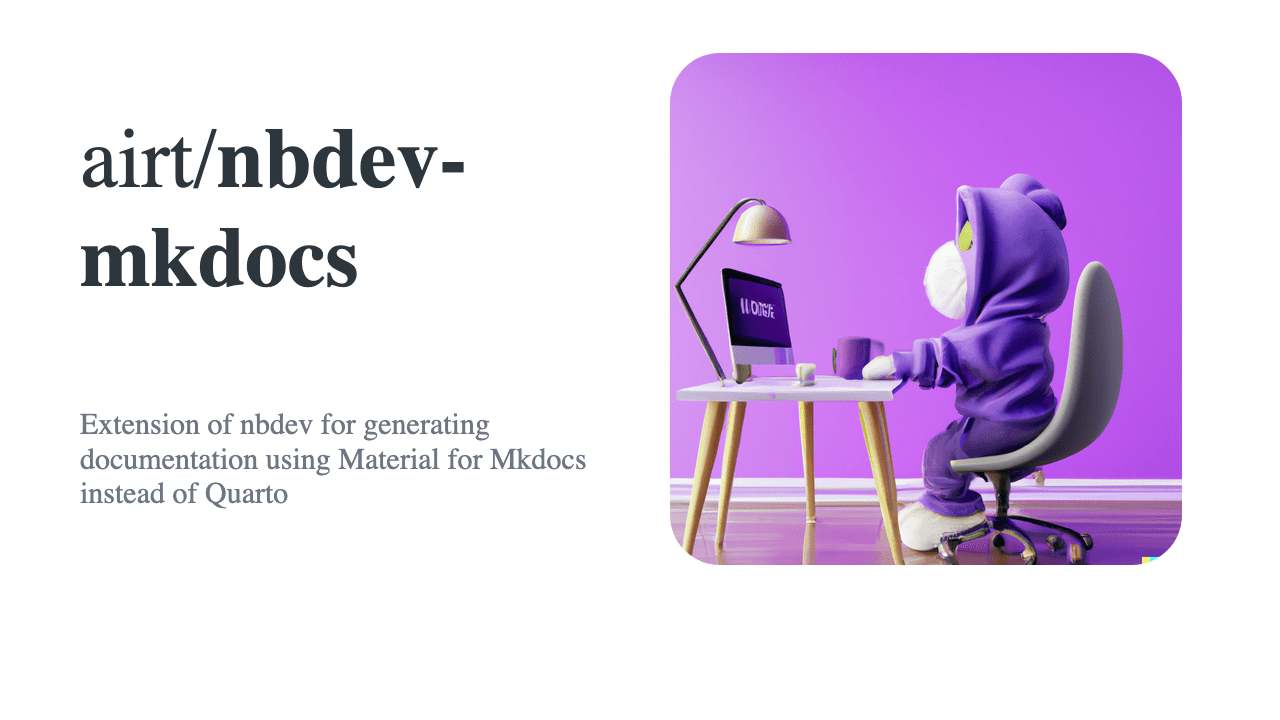
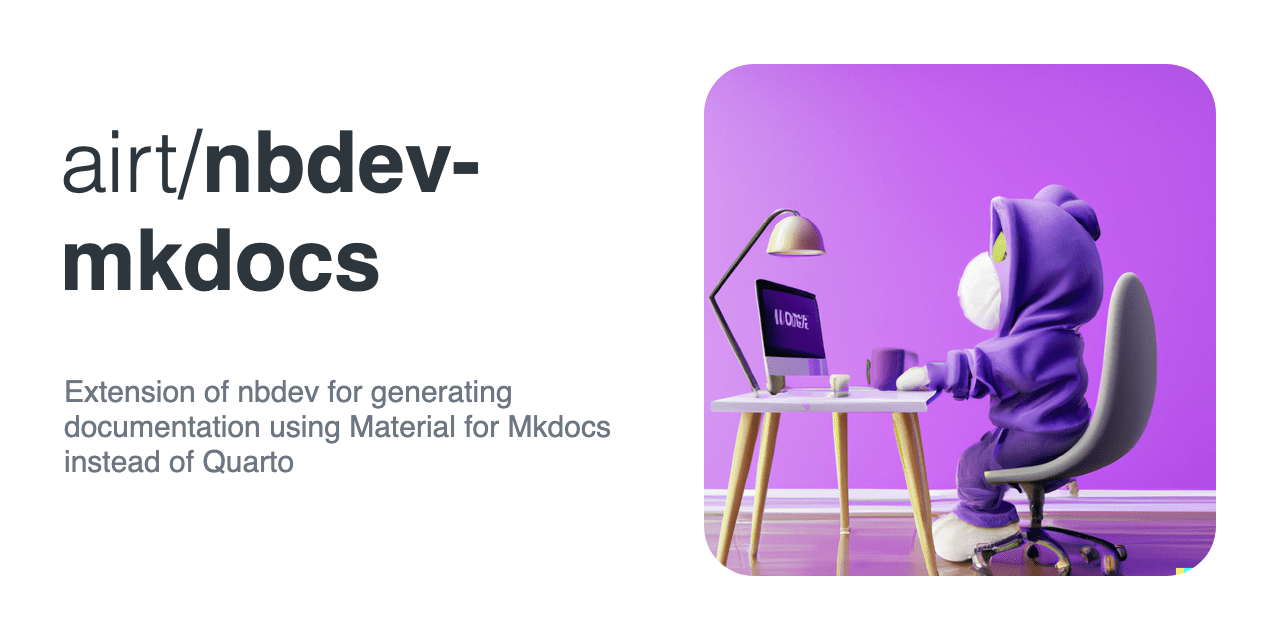
Fix alignment in social share template

Changed region(s): [[0.0312, 0.0625, 0.9688, 0.9062], [0.0312, 0.1562, 0.375, 0.4688]]

diff --git a/nbdev_mkdocs/package_data/custom-social-image-template.html b/nbdev_mkdocs/package_data/custom-social-image-template.html
@@ -1,26 +1,49 @@
 <!DOCTYPE html>
 <html>
-   <head>
-     <link rel="preload" href='https://fonts.googleapis.com/css?family=Source Sans Pro' rel='stylesheet'/>
-   </head>
-   <body style="margin: 0px;height: 640px;width: 1280px;overflow: hidden;">
-      <div id="container" style="
-         overflow: hidden;
-         height: 640px;
-         width: 1280px;
-         ">
-         <div style="width: 670px; float:left; height: 640px;">
-            <h1 style="padding-top: 110px;padding-left: 80px;font-size: 85px;color: #2E363D;margin: 0;"><span style="
-               font-weight: 100;
-               ">{author_name}/</span>{project_name}</h1>
-            <p style="padding-top: 70px;padding-left: 80px;font-size: 30px;color: #6E7681;">{project_description}</p>
+    <head>
+        <link rel="preload" href='https://fonts.googleapis.com/css?family=Source Sans Pro' rel='stylesheet'/>
+        <style>
+            body {
+                margin: 0px;
+                width: 1280px;
+                height: 640px;
+                font-family: 'Source Sans Pro', sans-serif;
+            }
+            #container {
+                display: flex;
+                height: 640px;
+            }
+            #container div:first-child{
+                flex-basis: 704px;
+                padding-top: 40px;
+            }
+            #container div:first-child h1{
+                font-size: 85px;
+                margin: 74px 0px 64px 60px;
+                color: #2E363D;
+            }
+            #container div:first-child h1 span{
+                font-weight: 100;
+            }
+            #container div:first-child p {
+                font-size: 30px;
+                color: #6E7681;
+                margin: 64px 0px 64px 64px;
+            }
+            #container div:last-child img{
+                margin: 64px 64px 64px 0px;
+                border-radius: 50px;
+            }
+        </style>
+      </head>
+      <body>
+      <div id="container">
+         <div>
+            <h1><span>fill_in_author_name/</span>fill_in_project_name</h1>
+            <p>fill_in_project_description</p>
          </div>
-         <div style="width: 555px;float:left;height: 640px;overflow: hidden;padding: 53px 53px 53px 0px;">
-            <img src="{image_url}" style="
-               width: 512px;
-               height: auto;
-               border-radius: 50px;
-               ">
+         <div>
+            <img src="fill_in_image_url" />
          </div>
       </div>
    </body>

diff --git a/package_data/custom-social-image-template.html b/package_data/custom-social-image-template.html
@@ -1,26 +1,49 @@
 <!DOCTYPE html>
 <html>
-   <head>
-     <link rel="preload" href='https://fonts.googleapis.com/css?family=Source Sans Pro' rel='stylesheet'/>
-   </head>
-   <body style="margin: 0px;height: 640px;width: 1280px;overflow: hidden;">
-      <div id="container" style="
-         overflow: hidden;
-         height: 640px;
-         width: 1280px;
-         ">
-         <div style="width: 670px; float:left; height: 640px;">
-            <h1 style="padding-top: 110px;padding-left: 80px;font-size: 85px;color: #2E363D;margin: 0;"><span style="
-               font-weight: 100;
-               ">{author_name}/</span>{project_name}</h1>
-            <p style="padding-top: 70px;padding-left: 80px;font-size: 30px;color: #6E7681;">{project_description}</p>
+    <head>
+        <link rel="preload" href='https://fonts.googleapis.com/css?family=Source Sans Pro' rel='stylesheet'/>
+        <style>
+            body {
+                margin: 0px;
+                width: 1280px;
+                height: 640px;
+                font-family: 'Source Sans Pro', sans-serif;
+            }
+            #container {
+                display: flex;
+                height: 640px;
+            }
+            #container div:first-child{
+                flex-basis: 704px;
+                padding-top: 40px;
+            }
+            #container div:first-child h1{
+                font-size: 85px;
+                margin: 74px 0px 64px 60px;
+                color: #2E363D;
+            }
+            #container div:first-child h1 span{
+                font-weight: 100;
+            }
+            #container div:first-child p {
+                font-size: 30px;
+                color: #6E7681;
+                margin: 64px 0px 64px 64px;
+            }
+            #container div:last-child img{
+                margin: 64px 64px 64px 0px;
+                border-radius: 50px;
+            }
+        </style>
+      </head>
+      <body>
+      <div id="container">
+         <div>
+            <h1><span>fill_in_author_name/</span>fill_in_project_name</h1>
+            <p>fill_in_project_description</p>
          </div>
-         <div style="width: 555px;float:left;height: 640px;overflow: hidden;padding: 53px 53px 53px 0px;">
-            <img src="{image_url}" style="
-               width: 512px;
-               height: auto;
-               border-radius: 50px;
-               ">
+         <div>
+            <img src="fill_in_image_url" />
          </div>
       </div>
    </body>

diff --git a/nbdev_mkdocs/social_image_generator.py b/nbdev_mkdocs/social_image_generator.py
@@ -60,13 +60,16 @@ def _generate_html_str(root_path: str, image_url: str) -> str:
         image_url = Path(image_url).name if is_local_path(image_url) else image_url
 
         d = dict(
-            author_name=author_name,
-            project_name=project_name,
-            project_description=project_description,
-            image_url=image_url,
+            fill_in_author_name=author_name,
+            fill_in_project_name=project_name,
+            fill_in_project_description=project_description,
+            fill_in_image_url=image_url,
         )
 
-        return _html_template.format(**d)
+        for k, v in d.items():
+            _html_template = _html_template.replace(k, v)
+
+        return _html_template
 
 # %% ../nbs/Social_Image_Generator.ipynb 8
 async def _capture_and_save_screenshot(src_path: str, dst_path: str):
@@ -89,7 +92,7 @@ async def _capture_and_save_screenshot(src_path: str, dst_path: str):
         output_path = (
             Path(dst_path) / "mkdocs" / "docs_overrides" / "images" / "social_image.png"
         )
-        await page.screenshot(path=str(output_path.resolve()))
+        await page.locator("#container").screenshot(path=str(output_path.resolve()))
 
         typer.echo(f"Social share image generated and saved at: '{output_path}'")
 
